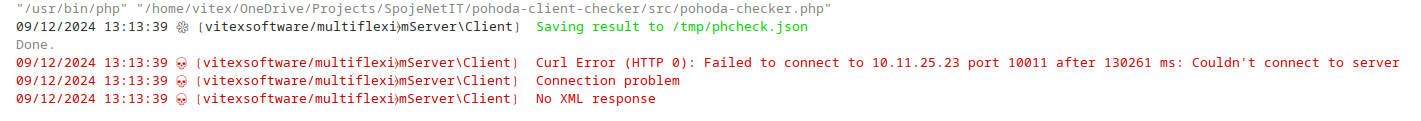
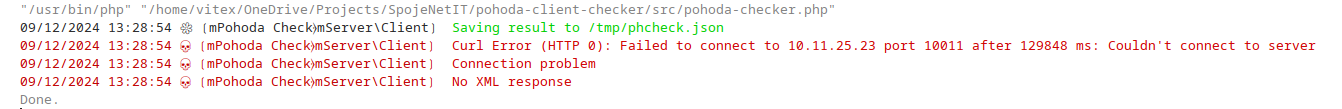
Script Named

diff --git a/src/pohoda-checker.php b/src/pohoda-checker.php
@@ -15,6 +15,8 @@ declare(strict_types=1);
 
 require_once '../vendor/autoload.php';
 
+define('APP_NAME', 'mPohoda Check');
+
 $options = getopt('o::e::', ['output::', 'environment::']);
 \Ease\Shared::init(['POHODA_URL', 'POHODA_USERNAME', 'POHODA_PASSWORD', 'POHODA_ICO'], \array_key_exists('environment', $options) ? $options['environment'] : '../.env');
 $destination = \array_key_exists('output', $options) ? $options['output'] : \Ease\Shared::cfg('RESULT_FILE', 'php://stdout');
